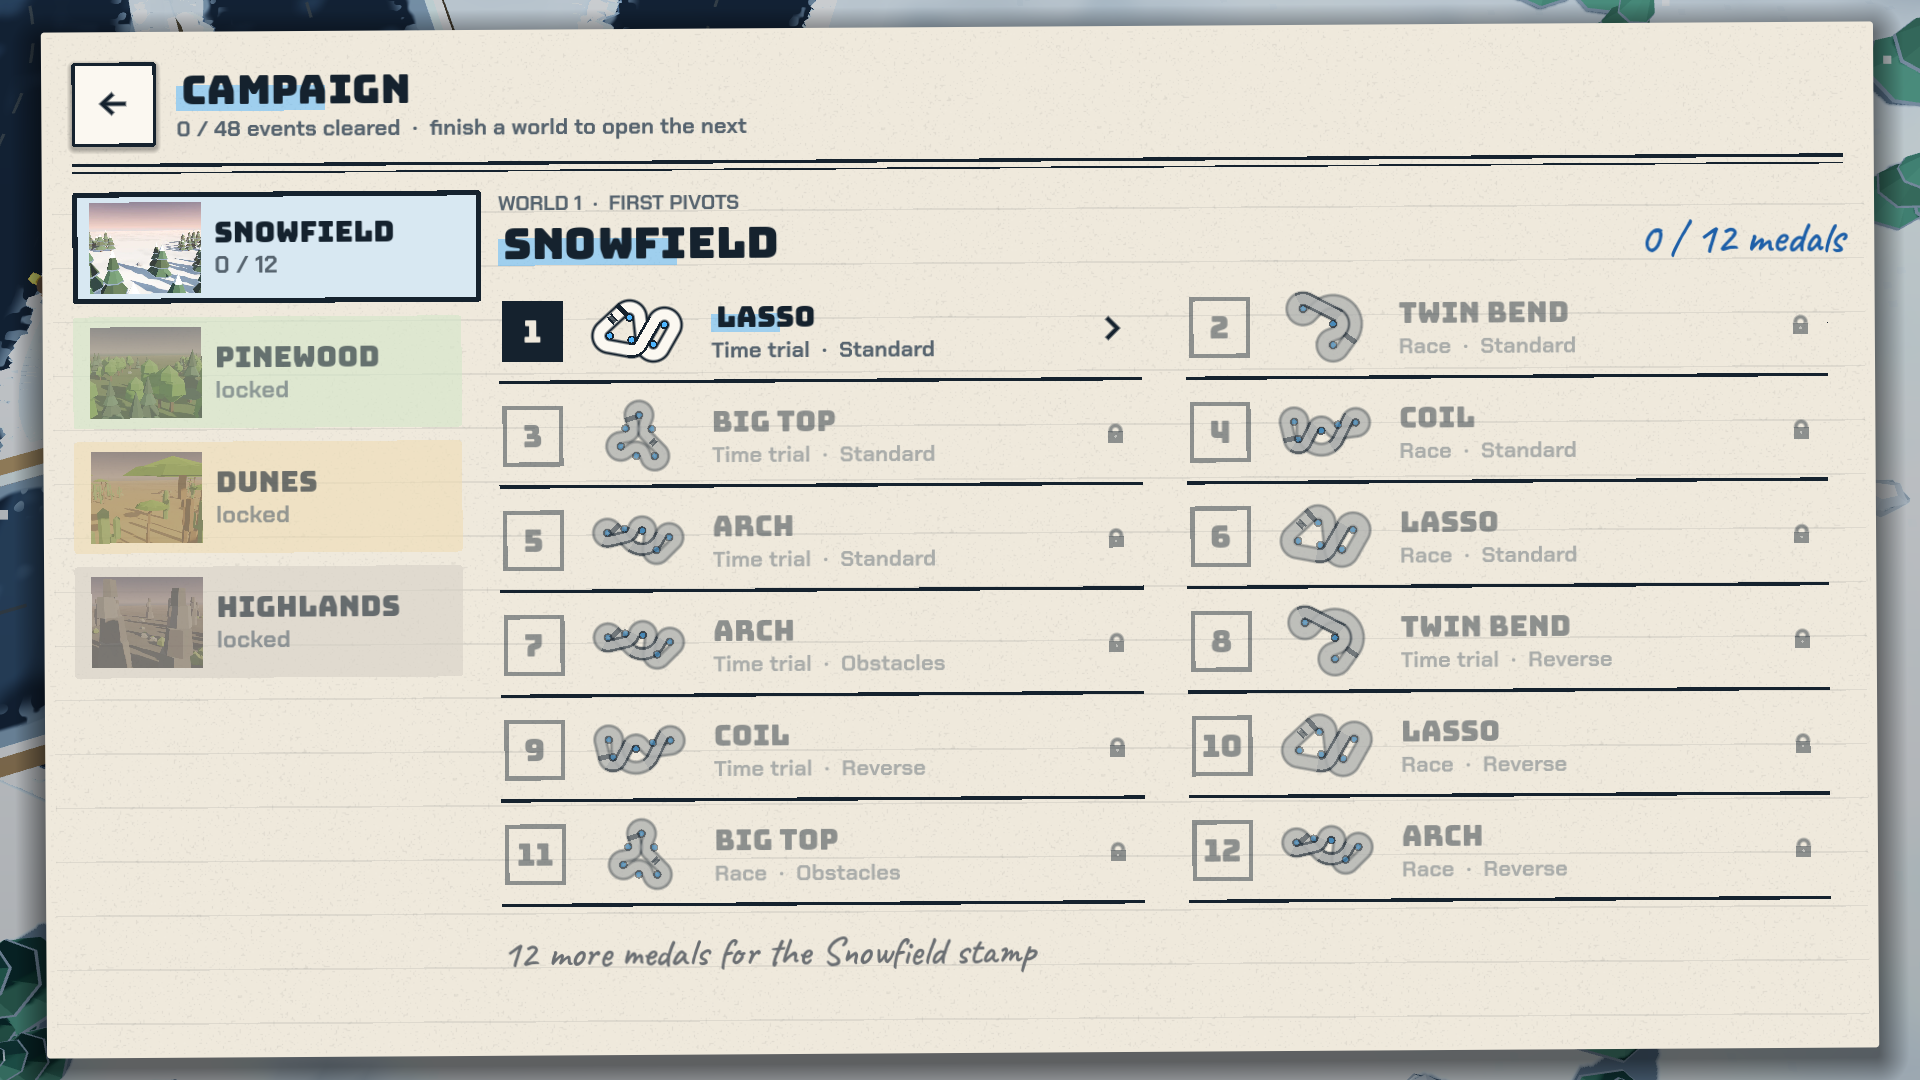
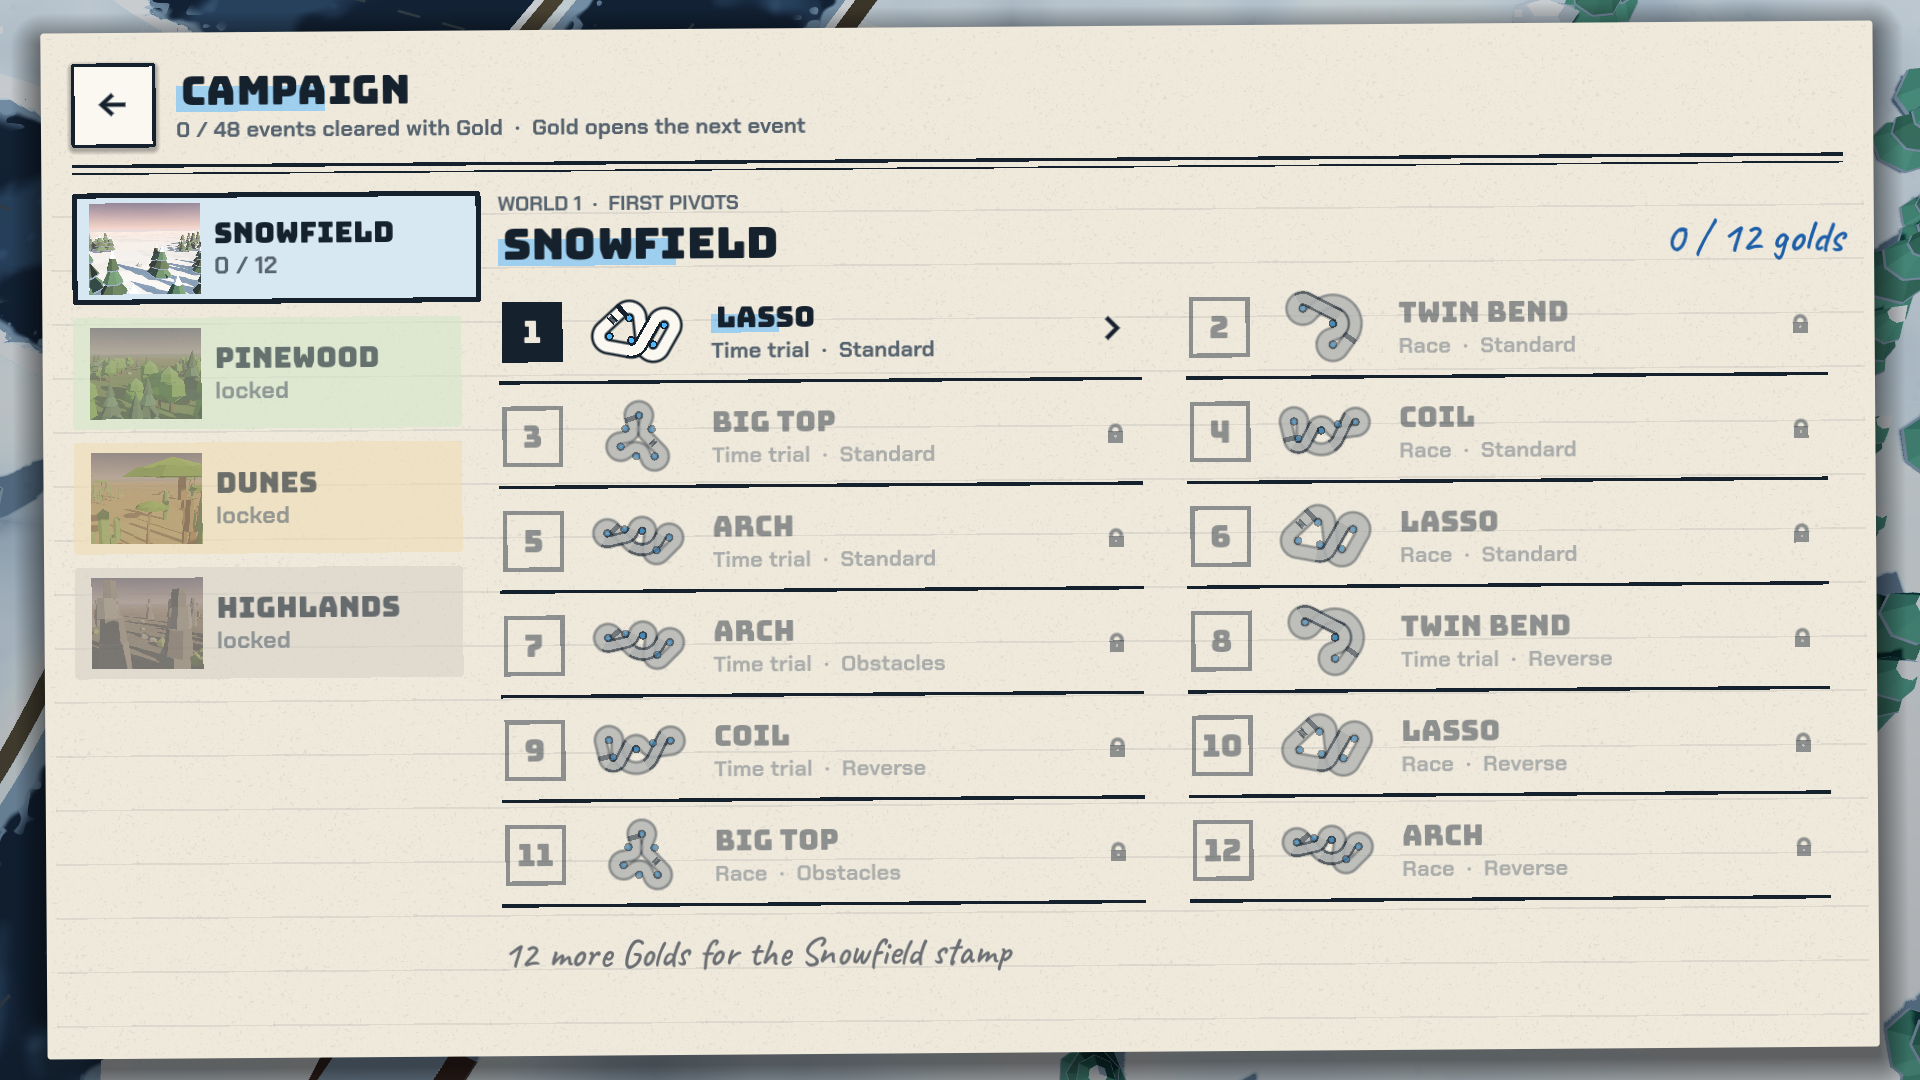
Campaign: you need Gold to advance (#76)
* Campaign: Gold to advance - Gold opens the next event, Gold everywhere finishes a world

Events already medalled stay playable and worlds saved as finished stay finished.
Menus say golds; event page and results say Gold opens the next event.

Claude-Session: https://claude.ai/code/session_01VxP4fsxS4h6s586p5xHAMJ

* Campaign header counts events cleared with Gold

* World select: add the 'you are here' note once (it is already in its tag)

Claude-Session: https://claude.ai/code/session_01VxP4fsxS4h6s586p5xHAMJ

* Store: re-render the campaign screenshot (golds)

Claude-Session: https://claude.ai/code/session_01VxP4fsxS4h6s586p5xHAMJ

---------

diff --git a/AGENTS.md b/AGENTS.md
@@ -95,6 +95,10 @@ Only redo the ones where the change is visible, and put before/after images in t
   paper-like: pages slide in (`_land` in `menu.gd`), highlighter strokes draw on, medals are stamped
   (`Stamp.thump()`). Any full-screen container laid over buttons must have
   `mouse_filter = MOUSE_FILTER_IGNORE`, or it eats their taps (the home bookmarks broke that way).
+- Campaign progression: you need Gold (or Pivot) to advance. Gold on an event opens the next one;
+  Gold on all 12 events finishes a world (`Campaign.cleared`, `Campaign.GOLD`). Finished worlds are
+  saved as `done_<theme>` flags, so a stricter rule never re-locks a world; an event that already
+  has a medal stays playable. Covered by `tests/economy_test.gd`.
 - Tether: fixed length, set by the distance to the tower at the moment of hooking. It never
   shortens (no ratchet, no reel-in) and never pays out; hooked early, the rope hangs slack until the
   car swings out to that length. Grab timing alone sets the line. After changing the driving rules,
